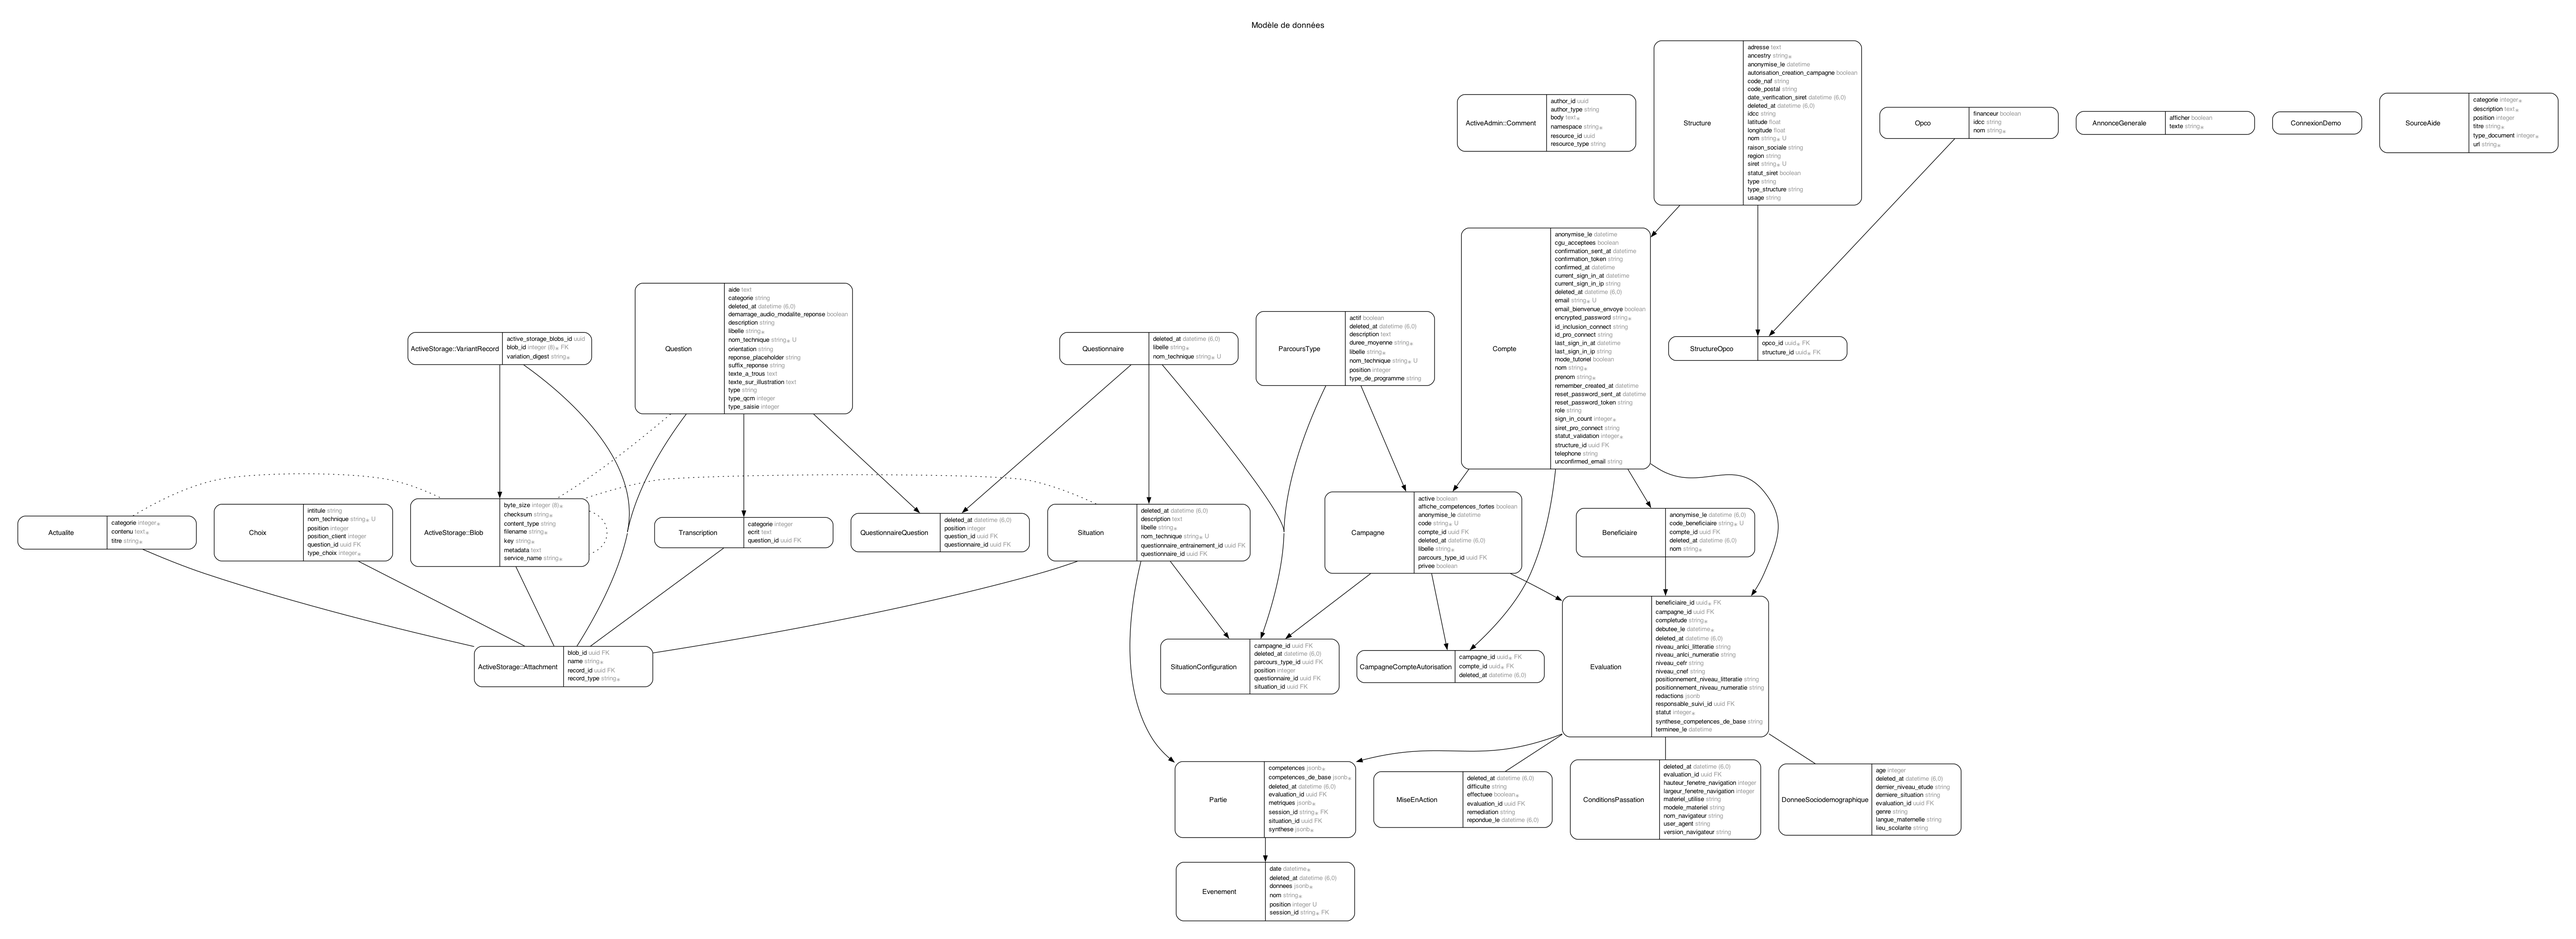
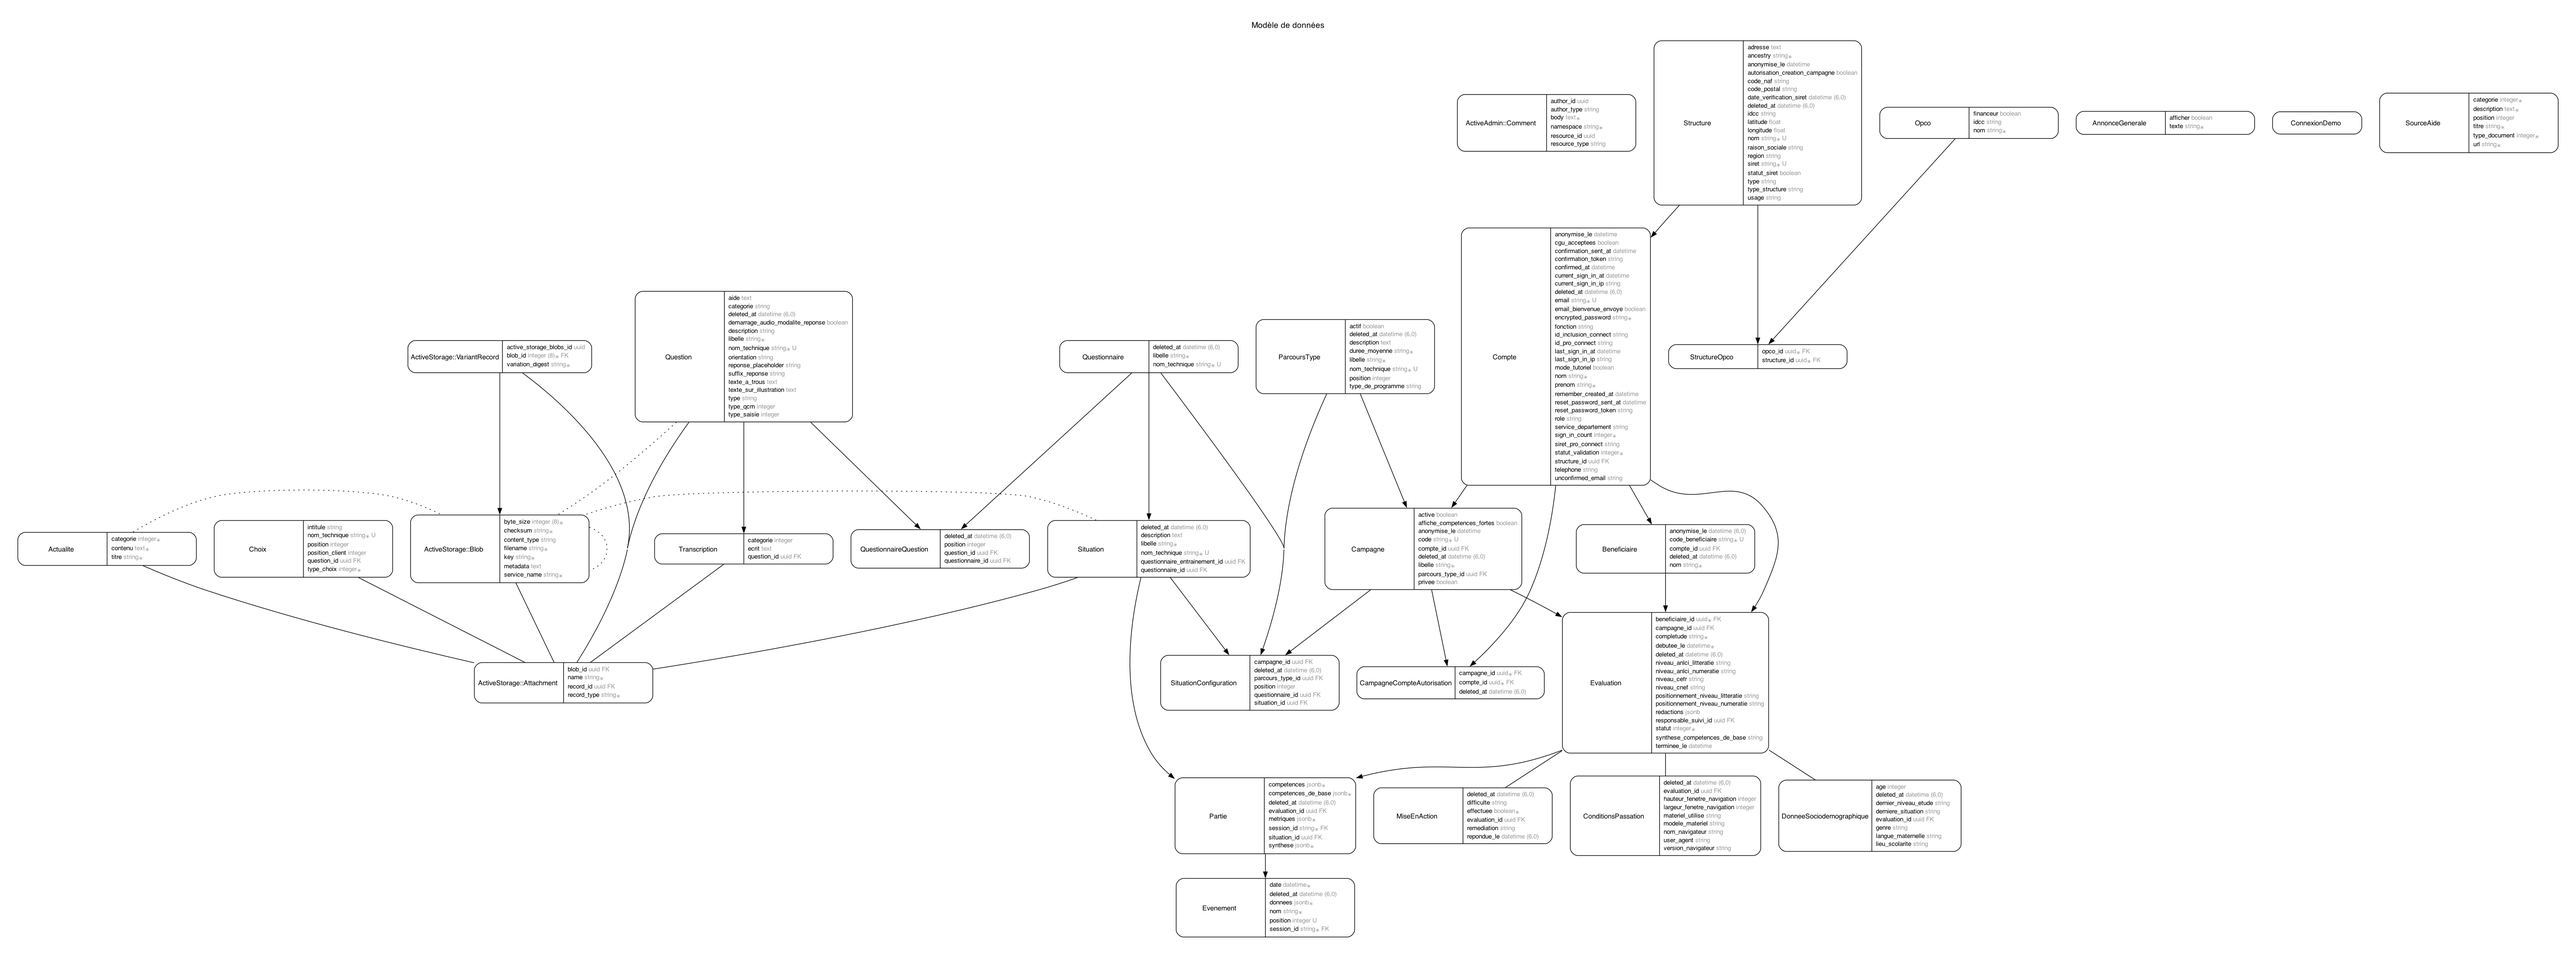
✨ Ajoute la notion de fonction et service/departement sur les comptes
Notamment pour les comptes ProConnect

diff --git a/spec/models/compte_spec.rb b/spec/models/compte_spec.rb
@@ -347,4 +347,72 @@ describe Compte do
       end
     end
   end
+
+  describe "validation de la fonction pour les comptes Pro Connect" do
+    context "quand id_pro_connect est rempli" do
+      let(:compte) do
+        build :compte,
+              id_pro_connect: "12345",
+              nom: "Dupont",
+              prenom: "Jean",
+              email: "jean.dupont@example.com",
+              statut_validation: :en_attente
+      end
+
+      context "quand la fonction est vide" do
+        before do
+          compte.fonction = nil
+          compte.valid?
+        end
+
+        it "signale une erreur sur le champ fonction" do
+          expect(compte.errors[:fonction]).not_to be_blank
+        end
+      end
+
+      context "quand la fonction est remplie" do
+        before do
+          compte.fonction = "conseillere_ou_conseiller_emploi_formation_insertion"
+          compte.valid?
+        end
+
+        it "n'a pas d'erreur sur le champ fonction" do
+          expect(compte.errors[:fonction]).to be_blank
+        end
+      end
+    end
+
+    context "quand id_pro_connect est vide" do
+      let(:compte) do
+        build :compte,
+              id_pro_connect: nil,
+              nom: "Dupont",
+              prenom: "Jean",
+              email: "jean.dupont@example.com",
+              statut_validation: :en_attente
+      end
+
+      context "quand la fonction est vide" do
+        before do
+          compte.fonction = nil
+          compte.valid?
+        end
+
+        it "n'a pas d'erreur sur le champ fonction" do
+          expect(compte.errors[:fonction]).to be_blank
+        end
+      end
+
+      context "quand la fonction est remplie" do
+        before do
+          compte.fonction = "conseillere_ou_conseiller_emploi_formation_insertion"
+          compte.valid?
+        end
+
+        it "n'a pas d'erreur sur le champ fonction" do
+          expect(compte.errors[:fonction]).to be_blank
+        end
+      end
+    end
+  end
 end

diff --git a/app/models/compte.rb b/app/models/compte.rb
@@ -9,6 +9,25 @@ class Compte < ApplicationRecord
   ADMIN_ROLES = %w[superadmin admin compte_generique].freeze
   ANLCI_ROLES = %w[superadmin charge_mission_regionale].freeze
 
+  FONCTIONS = [
+    "assistante_ou_assistant_social",
+    "chargee_ou_charge_de_formation",
+    "cheffe_ou_chef_de_projet",
+    "conseillere_ou_conseiller_emploi_formation_insertion",
+    "consultante_ou_consultant",
+    "coordinatrice_ou_coordinateur_pedagogique",
+    "directrice_ou_directeur",
+    "educatrice_ou_educateur",
+    "enseignante_ou_enseignant_de_l_education_nationale",
+    "formatrice_ou_formateur",
+    "psychologue_ou_medecin_du_travail",
+    "referente_ou_referent_handicap",
+    "responsable_conseillere_ou_conseiller_rh",
+    "responsable_conseillere_ou_conseiller_rse",
+    "volontaire_service_civique",
+    "autre"
+  ].freeze
+
   # Include default devise modules. Others available are:
   # :confirmable, :lockable, :timeoutable, :trackable and :omniauthable
   devise :database_authenticatable, :trackable,
@@ -26,6 +45,8 @@ class Compte < ApplicationRecord
   validate :verifie_dns_email, :structure_a_un_admin, :structure_de_depart_a_un_admin
   validates :email, uniqueness: { case_sensitive: false }
   validates_with PasswordValidator, fields: [ :password ]
+  validates :fonction, inclusion: { in: FONCTIONS }, allow_blank: true
+  validate :verifie_fonction_obligatoire_si_pro_connect
 
   auto_strip_attributes :email, :nom, :prenom, :telephone, squish: true
 
@@ -140,5 +161,11 @@ class Compte < ApplicationRecord
     else
       errors.add(:role, :structure_doit_avoir_un_admin, nom_structure: structure.nom)
     end
+  end
+
+  def verifie_fonction_obligatoire_si_pro_connect
+    return if id_pro_connect.blank?
+
+    errors.add(:fonction, :blank) if fonction.blank?
   end
 end

diff --git a/db/schema.rb b/db/schema.rb
@@ -10,7 +10,7 @@
 #
 # It's strongly recommended that you check this file into your version control system.
 
-ActiveRecord::Schema[7.2].define(version: 2025_12_20_120005) do
+ActiveRecord::Schema[7.2].define(version: 2025_12_20_120006) do
   # These are extensions that must be enabled in order to support this database
   enable_extension "pgcrypto"
   enable_extension "plpgsql"
@@ -162,6 +162,8 @@ ActiveRecord::Schema[7.2].define(version: 2025_12_20_120005) do
     t.boolean "cgu_acceptees"
     t.string "id_pro_connect"
     t.string "siret_pro_connect"
+    t.string "fonction"
+    t.string "service_departement"
     t.index ["confirmation_token"], name: "index_comptes_on_confirmation_token", unique: true
     t.index ["deleted_at"], name: "index_comptes_on_deleted_at"
     t.index ["email"], name: "index_comptes_on_email", unique: true, where: "(deleted_at IS NULL)"

diff --git a/app/helpers/compte_helper.rb b/app/helpers/compte_helper.rb
@@ -8,4 +8,16 @@ module CompteHelper
       "#{statut_humain}"
     end
   end
+
+  def traduction_fonction(fonction)
+    I18n.t(
+      "activerecord.attributes.compte.fonctions.#{fonction}"
+    )
+  end
+
+  def collection_fonctions
+    Compte::FONCTIONS.map do |fonction|
+      [ traduction_fonction(fonction), fonction ]
+    end
+  end
 end

diff --git a/db/migrate/20251220120006_ajoute_champs_pour_comptes.rb b/db/migrate/20251220120006_ajoute_champs_pour_comptes.rb
@@ -1,0 +1,6 @@
+class AjouteChampsPourComptes < ActiveRecord::Migration[7.2]
+  def change
+    add_column :comptes, :fonction, :string
+    add_column :comptes, :service_departement, :string
+  end
+end
